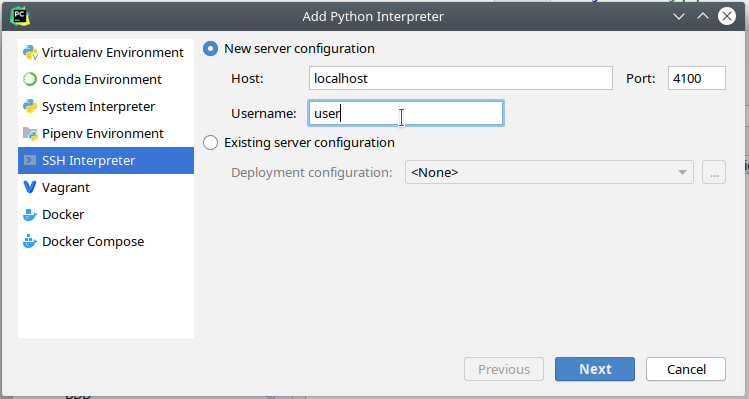
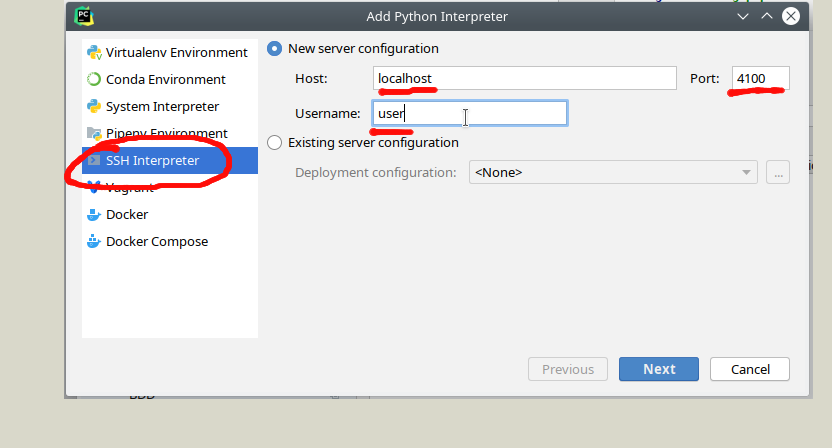
fix ssh debug documentation

diff --git a/README.md b/README.md
@@ -44,6 +44,8 @@ incoming traffic from outside networks.
 
 You need **PyCharm Professional** to enable interpreter over ssh.
 
+> **The container must be running. Run `./kickstart.sh` before going further** 
+
 Go to **File** > **Settings**:
 
 ![Settings1](doc/intellij-debug-settings1.png)
@@ -51,6 +53,9 @@ Go to **File** > **Settings**:
 ![Settings2](doc/intellij-debug-settings2.png)
 
 ![Settings3](doc/intellij-debug-settings3.png)
+
+![Settings4](doc/intellij-debug-settings4.png)
+
 
 Make sure that *Automatically upload files to server* is turned **off** and *path mapping* of your Project directory
 links to **`/opt`** and python interpreter is set to python**3**
